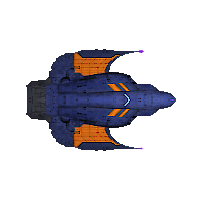
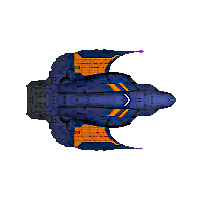
Evirol Kon

diff --git a/source/server/model/ships/hyach/HyachEvirolKon.php b/source/server/model/ships/hyach/HyachEvirolKon.php
@@ -7,7 +7,7 @@ class HyachEvirolKon extends BaseShip{
 	$this->pointCost = 500;
 	$this->faction = "Hyach Gerontocracy";
         $this->phpclass = "HyachEvirolKon";
-        $this->imagePath = "img/ships/HyachIrokaiKam.png";
+        $this->imagePath = "img/ships/HyachEvirolTek.png";
         $this->shipClass = "Evirol Kon Auxiliary Carrier";
 			$this->variantOf = 'Evirol Tek Logistics Cruiser';
 			$this->occurence = "common";

diff --git a/source/server/model/ships/abbai/lakaraEarly.php b/source/server/model/ships/abbai/lakaraEarly.php
@@ -13,7 +13,7 @@ class LakaraEarly extends BaseShip{
 			$this->variantOf = 'Lakara Cruiser';
         $this->shipSizeClass = 3;
 
-		$this->isd = 2180;
+		$this->isd = 2220;
         
         $this->forwardDefense = 18;
         $this->sideDefense = 16;
